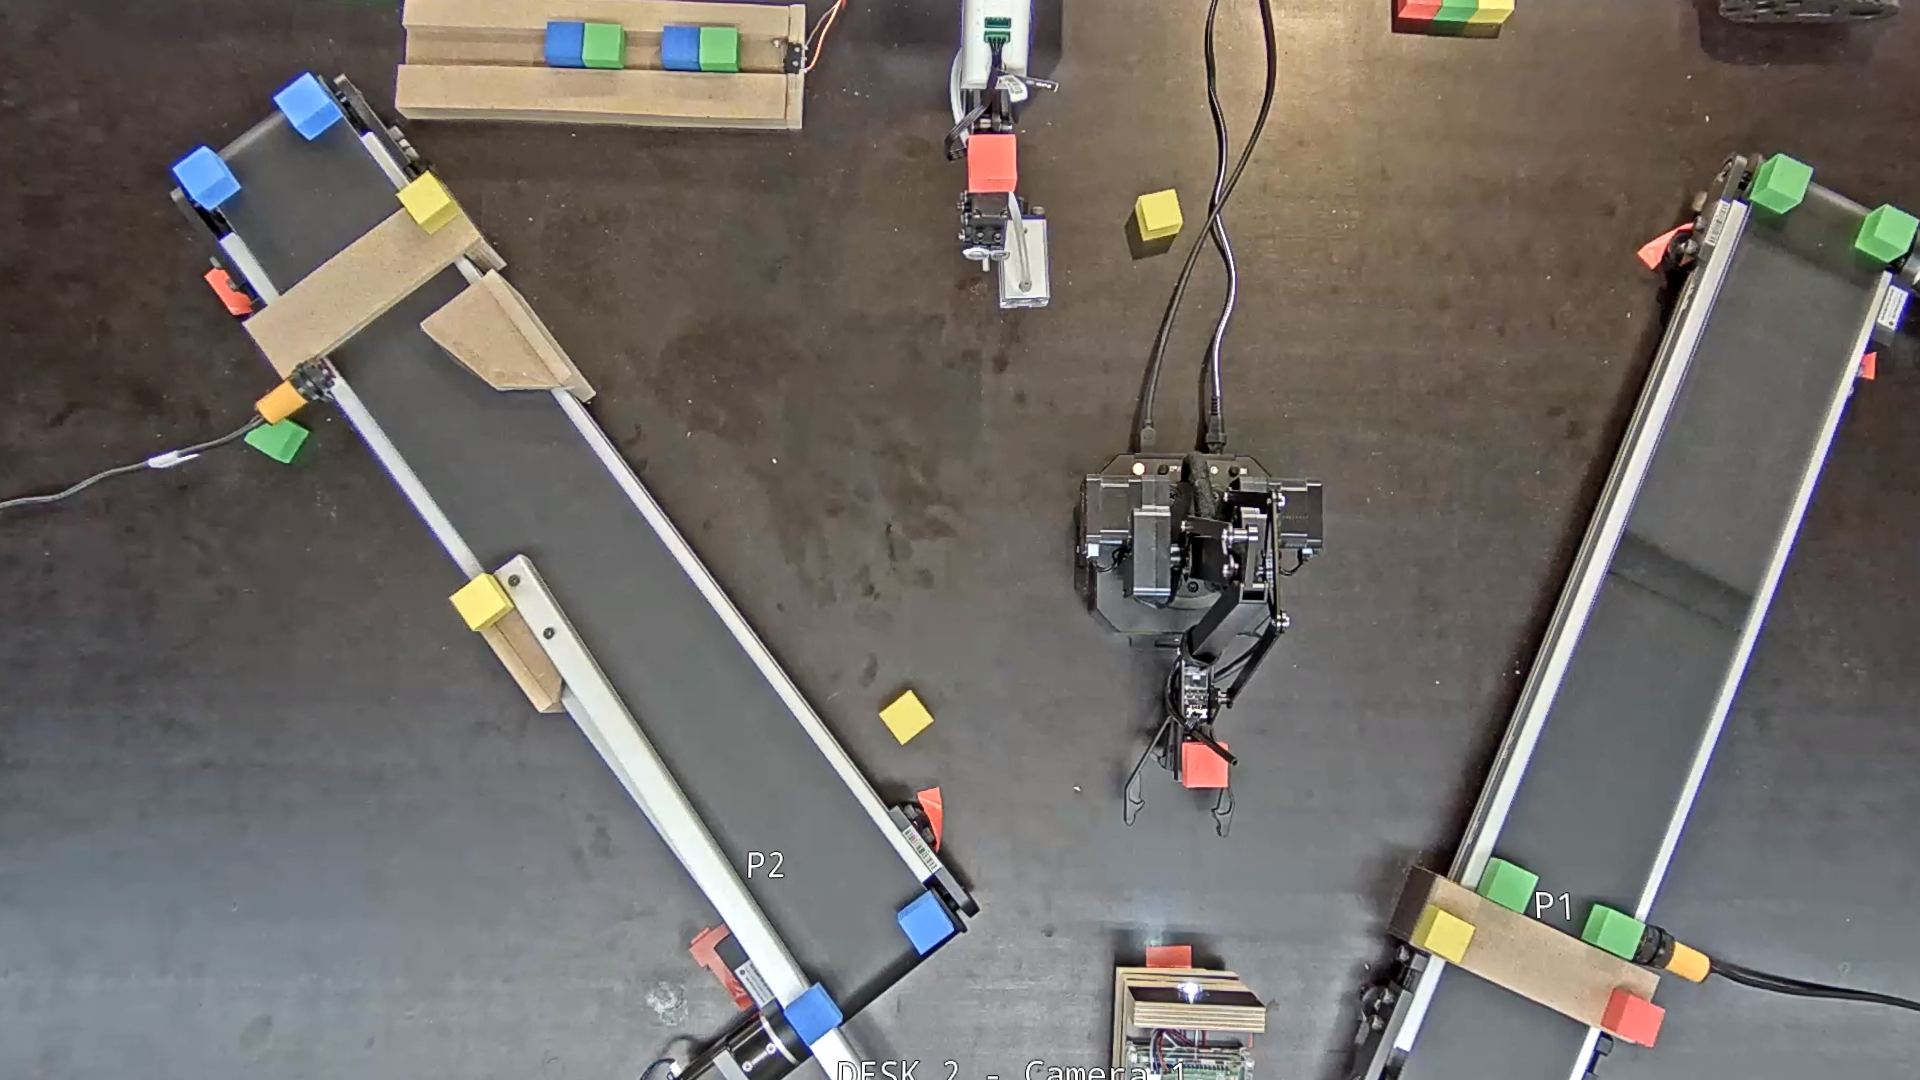
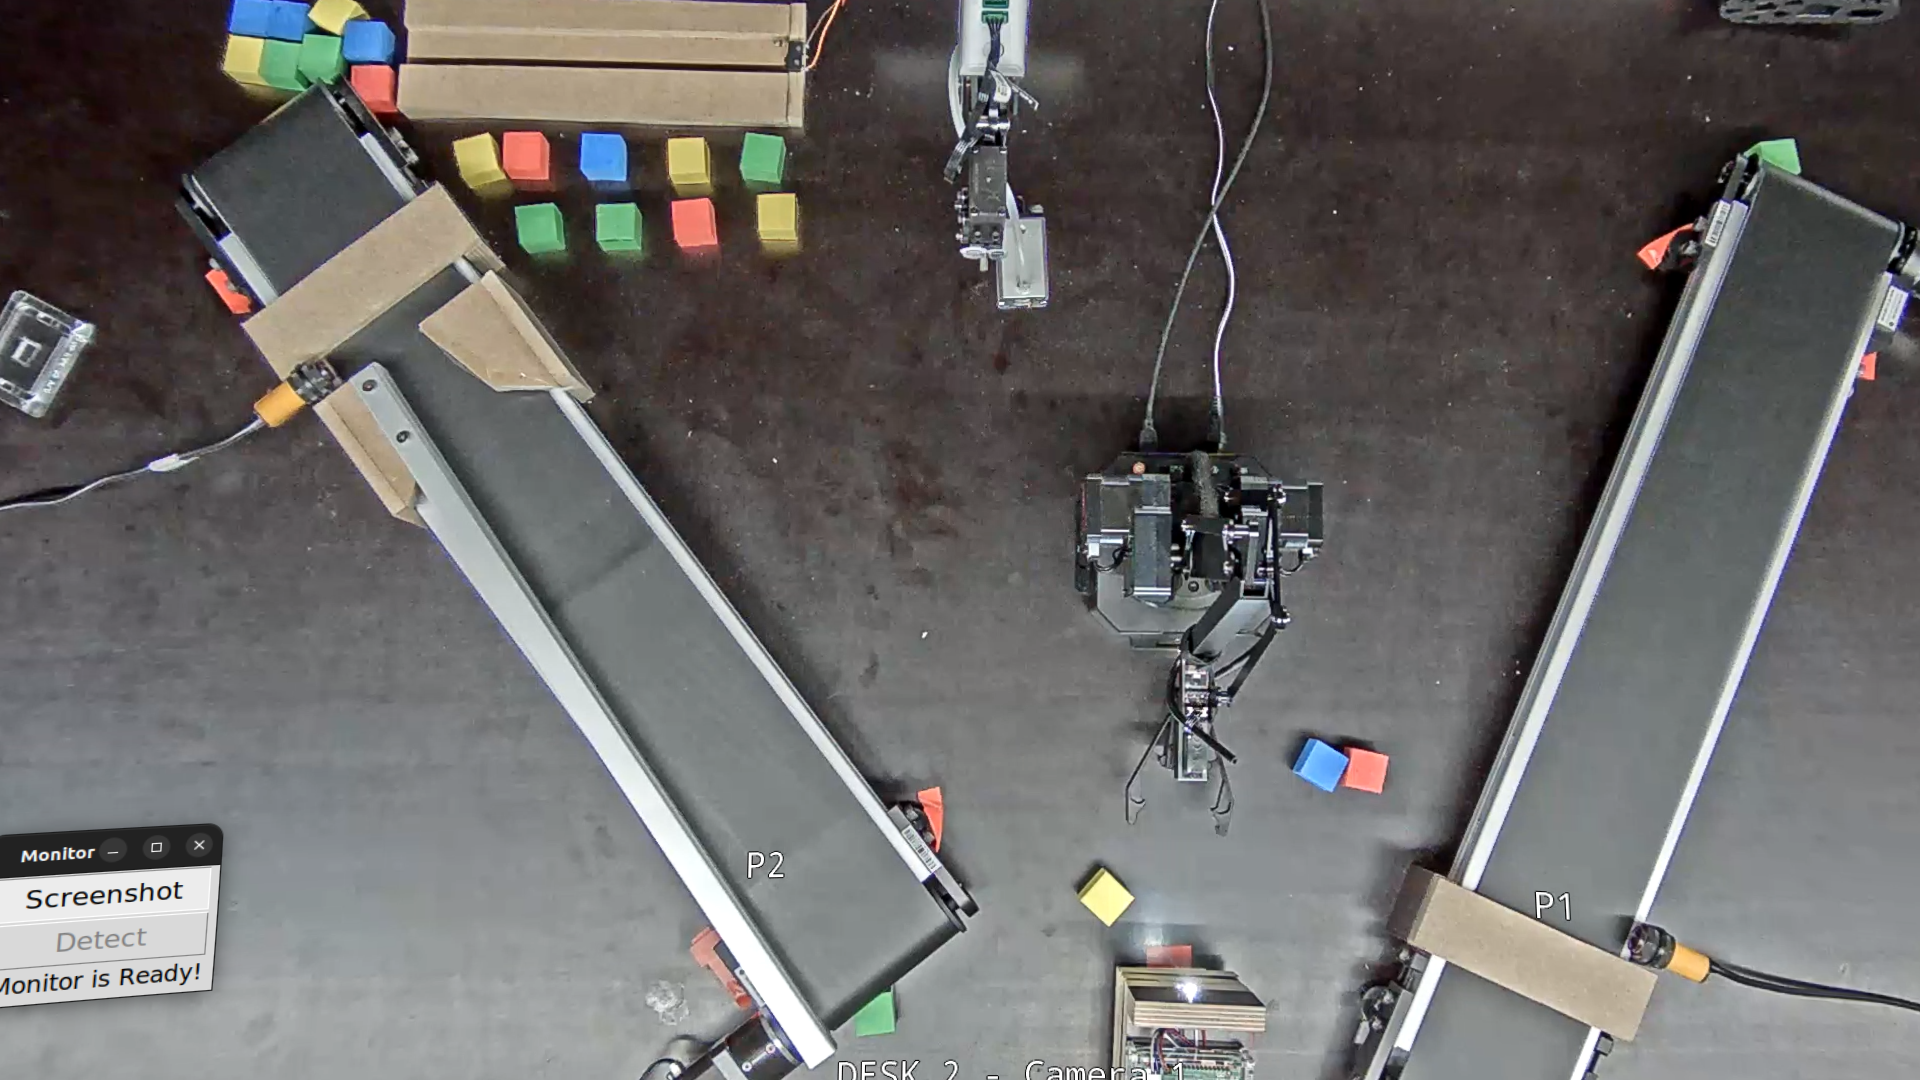
20220910

diff --git a/src/tracks.py b/src/tracks.py
@@ -4,25 +4,25 @@ import points as pts
 def isOnTrack(testPoint):#testPoint为待测点[x,y]
 
     # define area 1 as the left track (pink)
-    LBPoint_1 = [pts.corner_left_4_x, pts.corner_left_4_y]
-    LTPoint_1 = [pts.corner_left_1_x, pts.corner_left_1_y]
-    RTPoint_1 = [pts.corner_left_2_x, pts.corner_left_2_y]
-    RBPoint_1 = [pts.corner_left_3_x, pts.corner_left_3_y]
-    a = (LTPoint_1[0]-LBPoint_1[0])*(testPoint[1]-LBPoint_1[1])-(LTPoint_1[1]-LBPoint_1[1])*(testPoint[0]-LBPoint_1[0])
-    b = (RTPoint_1[0]-LTPoint_1[0])*(testPoint[1]-LTPoint_1[1])-(RTPoint_1[1]-LTPoint_1[1])*(testPoint[0]-LTPoint_1[0])
-    c = (RBPoint_1[0]-RTPoint_1[0])*(testPoint[1]-RTPoint_1[1])-(RBPoint_1[1]-RTPoint_1[1])*(testPoint[0]-RTPoint_1[0])
-    d = (LBPoint_1[0]-RBPoint_1[0])*(testPoint[1]-RBPoint_1[1])-(LBPoint_1[1]-RBPoint_1[1])*(testPoint[0]-RBPoint_1[0])
+    left_track_LBPoint = [pts.left_track_LB_x, pts.left_track_LB_y]
+    left_track_LTPoint = [pts.left_track_LT_x, pts.left_track_LT_y]
+    left_track_RTPoint = [pts.left_track_RT_x, pts.left_track_RT_y]
+    left_track_RBPoint = [pts.left_track_RB_x, pts.left_track_RB_y]
+    a = (left_track_LTPoint[0]-left_track_LBPoint[0])*(testPoint[1]-left_track_LBPoint[1])-(left_track_LTPoint[1]-left_track_LBPoint[1])*(testPoint[0]-left_track_LBPoint[0])
+    b = (left_track_RTPoint[0]-left_track_LTPoint[0])*(testPoint[1]-left_track_LTPoint[1])-(left_track_RTPoint[1]-left_track_LTPoint[1])*(testPoint[0]-left_track_LTPoint[0])
+    c = (left_track_RBPoint[0]-left_track_RTPoint[0])*(testPoint[1]-left_track_RTPoint[1])-(left_track_RBPoint[1]-left_track_RTPoint[1])*(testPoint[0]-left_track_RTPoint[0])
+    d = (left_track_LBPoint[0]-left_track_RBPoint[0])*(testPoint[1]-left_track_RBPoint[1])-(left_track_LBPoint[1]-left_track_RBPoint[1])*(testPoint[0]-left_track_RBPoint[0])
     in_area_1 = (a>0 and b>0 and c>0 and d>0) or (a<0 and b<0 and c<0 and d<0)
 
     # define area 2 as the right track (pink)
-    LBPoint_2 = [pts.corner_right_4_x, pts.corner_right_4_y]
-    LTPoint_2 = [pts.corner_right_1_x, pts.corner_right_1_y]
-    RTPoint_2 = [pts.corner_right_2_x, pts.corner_right_2_y]
-    RBPoint_2 = [pts.corner_right_3_x, pts.corner_right_3_y]
-    a = (LTPoint_2[0]-LBPoint_2[0])*(testPoint[1]-LBPoint_2[1])-(LTPoint_2[1]-LBPoint_2[1])*(testPoint[0]-LBPoint_2[0])
-    b = (RTPoint_2[0]-LTPoint_2[0])*(testPoint[1]-LTPoint_2[1])-(RTPoint_2[1]-LTPoint_2[1])*(testPoint[0]-LTPoint_2[0])
-    c = (RBPoint_2[0]-RTPoint_2[0])*(testPoint[1]-RTPoint_2[1])-(RBPoint_2[1]-RTPoint_2[1])*(testPoint[0]-RTPoint_2[0])
-    d = (LBPoint_2[0]-RBPoint_2[0])*(testPoint[1]-RBPoint_2[1])-(LBPoint_2[1]-RBPoint_2[1])*(testPoint[0]-RBPoint_2[0])
+    right_track_LBPoint = [pts.right_track_LB_x, pts.right_track_LB_y]
+    right_track_LTPoint = [pts.right_track_LT_x, pts.right_track_LT_y]
+    right_track_RTPoint = [pts.right_track_RT_x, pts.right_track_RT_y]
+    right_track_RBPoint = [pts.right_track_RB_x, pts.right_track_RB_y]
+    a = (right_track_LTPoint[0]-right_track_LBPoint[0])*(testPoint[1]-right_track_LBPoint[1])-(right_track_LTPoint[1]-right_track_LBPoint[1])*(testPoint[0]-right_track_LBPoint[0])
+    b = (right_track_RTPoint[0]-right_track_LTPoint[0])*(testPoint[1]-right_track_LTPoint[1])-(right_track_RTPoint[1]-right_track_LTPoint[1])*(testPoint[0]-right_track_LTPoint[0])
+    c = (right_track_RBPoint[0]-right_track_RTPoint[0])*(testPoint[1]-right_track_RTPoint[1])-(right_track_RBPoint[1]-right_track_RTPoint[1])*(testPoint[0]-right_track_RTPoint[0])
+    d = (right_track_LBPoint[0]-right_track_RBPoint[0])*(testPoint[1]-right_track_RBPoint[1])-(right_track_LBPoint[1]-right_track_RBPoint[1])*(testPoint[0]-right_track_RBPoint[0])
     in_area_2 = (a>0 and b>0 and c>0 and d>0) or (a<0 and b<0 and c<0 and d<0)
 
     if in_area_1 or in_area_2: # if the point falls in either the left track or the right track, return True.

diff --git a/src/drawing.py b/src/drawing.py
@@ -8,24 +8,36 @@ def draw_points(image, x, y):
 
 def draw_masks(image):
     # draw the mask of the left track
-    pts_1 = np.array([[pts.corner_left_4_x, pts.corner_left_4_y],[pts.corner_left_1_x, pts.corner_left_1_y],[pts.corner_left_2_x, pts.corner_left_2_y],[pts.corner_left_3_x, pts.corner_left_3_y]], np.int32)
+    pts_1 = np.array([[pts.left_track_LB_x, pts.left_track_LB_y],
+                        [pts.left_track_LT_x, pts.left_track_LT_y],
+                        [pts.left_track_RT_x, pts.left_track_RT_y],
+                        [pts.left_track_RB_x, pts.left_track_RB_y]], np.int32)
     pts_1 = pts_1.reshape((-1, 1, 2))
     zeros = np.zeros((image.shape), dtype=np.uint8)
     mask_1 = cv2.fillConvexPoly(zeros, pts_1, (255,0,255))
 
     # draw the mask of the right track
-    pts_2 = np.array([[pts.corner_right_4_x, pts.corner_right_4_y],[pts.corner_right_1_x, pts.corner_right_1_y],[pts.corner_right_2_x, pts.corner_right_2_y],[pts.corner_right_3_x, pts.corner_right_3_y]], np.int32)
+    pts_2 = np.array([[pts.right_track_LB_x, pts.right_track_LB_y],
+                        [pts.right_track_LT_x, pts.right_track_LT_y],
+                        [pts.right_track_RT_x, pts.right_track_RT_y],
+                        [pts.right_track_RB_x, pts.right_track_RB_y]], np.int32)
     pts_2 = pts_2.reshape((-1, 1, 2))
     mask_2 = cv2.fillConvexPoly(zeros, pts_2, (255,0,255))
     image = 0.3*mask_1 + 0.3*mask_2 + + image
 
     # draw the mask of the right track
-    pts_3 = np.array([[pts.upper_left_4_x, pts.upper_left_4_y],[pts.upper_left_1_x, pts.upper_left_1_y],[pts.upper_left_2_x, pts.upper_left_2_y],[pts.upper_left_3_x, pts.upper_left_3_y]], np.int32)
+    pts_3 = np.array([[pts.left_track_upper_LB_x, pts.left_track_upper_LB_y],
+                        [pts.left_track_upper_LT_x, pts.left_track_upper_LT_y],
+                        [pts.left_track_upper_RT_x, pts.left_track_upper_RT_y],
+                        [pts.left_track_upper_RB_x, pts.left_track_upper_RB_y]], np.int32)
     pts_3 = pts_3.reshape((-1, 1, 2))
     mask_3 = cv2.fillConvexPoly(zeros, pts_3, (255,255,255))
 
     # draw the mask of the right track
-    pts_4 = np.array([[pts.upper_right_4_x, pts.upper_right_4_y],[pts.upper_right_1_x, pts.upper_right_1_y],[pts.upper_right_2_x, pts.upper_right_2_y],[pts.upper_right_3_x, pts.upper_right_3_y]], np.int32)
+    pts_4 = np.array([[pts.right_track_upper_LB_x, pts.right_track_upper_LB_y],
+                        [pts.right_track_upper_LT_x, pts.right_track_upper_LT_y],
+                        [pts.right_track_upper_RT_x, pts.right_track_upper_RT_y],
+                        [pts.right_track_upper_RB_x, pts.right_track_upper_RB_y]], np.int32)
     pts_4 = pts_4.reshape((-1, 1, 2))
     mask_4 = cv2.fillConvexPoly(zeros, pts_4, (255,255,255))
 

diff --git a/src/cubeCorrection.py b/src/cubeCorrection.py
@@ -3,11 +3,11 @@ import points as pts
 
 def isAtUpperLeft(testPoint):#testPoint为待测点[x,y]
 
-    # define area 1 as the left track (pink)
-    LBPoint_1 = [pts.upper_left_4_x, pts.upper_left_4_y]
-    LTPoint_1 = [pts.upper_left_1_x, pts.upper_left_1_y]
-    RTPoint_1 = [pts.upper_left_2_x, pts.upper_left_2_y]
-    RBPoint_1 = [pts.upper_left_3_x, pts.upper_left_3_y]
+    # define area 1 as the left track (white)
+    LBPoint_1 = [pts.left_track_upper_LB_x, pts.left_track_upper_LB_y]
+    LTPoint_1 = [pts.left_track_upper_LT_x, pts.left_track_upper_LT_y]
+    RTPoint_1 = [pts.left_track_upper_RT_x, pts.left_track_upper_RT_y]
+    RBPoint_1 = [pts.left_track_upper_RB_x, pts.left_track_upper_RB_y]
     a = (LTPoint_1[0]-LBPoint_1[0])*(testPoint[1]-LBPoint_1[1])-(LTPoint_1[1]-LBPoint_1[1])*(testPoint[0]-LBPoint_1[0])
     b = (RTPoint_1[0]-LTPoint_1[0])*(testPoint[1]-LTPoint_1[1])-(RTPoint_1[1]-LTPoint_1[1])*(testPoint[0]-LTPoint_1[0])
     c = (RBPoint_1[0]-RTPoint_1[0])*(testPoint[1]-RTPoint_1[1])-(RBPoint_1[1]-RTPoint_1[1])*(testPoint[0]-RTPoint_1[0])
@@ -22,11 +22,11 @@ def isAtUpperLeft(testPoint):#testPoint为待测点[x,y]
 
 def isAtUpperRight(testPoint):#testPoint为待测点[x,y]
 
-    # define area 1 as the left track (pink)
-    LBPoint_1 = [pts.upper_right_4_x, pts.upper_right_4_y]
-    LTPoint_1 = [pts.upper_right_1_x, pts.upper_right_1_y]
-    RTPoint_1 = [pts.upper_right_2_x, pts.upper_right_2_y]
-    RBPoint_1 = [pts.upper_right_3_x, pts.upper_right_3_y]
+    # define area 2 as the left track (white)
+    LBPoint_1 = [pts.right_track_upper_LB_x, pts.right_track_upper_LB_y]
+    LTPoint_1 = [pts.right_track_upper_LT_x, pts.right_track_upper_LT_y]
+    RTPoint_1 = [pts.right_track_upper_RT_x, pts.right_track_upper_RT_y]
+    RBPoint_1 = [pts.right_track_upper_RB_x, pts.right_track_upper_RB_y]
     a = (LTPoint_1[0]-LBPoint_1[0])*(testPoint[1]-LBPoint_1[1])-(LTPoint_1[1]-LBPoint_1[1])*(testPoint[0]-LBPoint_1[0])
     b = (RTPoint_1[0]-LTPoint_1[0])*(testPoint[1]-LTPoint_1[1])-(RTPoint_1[1]-LTPoint_1[1])*(testPoint[0]-LTPoint_1[0])
     c = (RBPoint_1[0]-RTPoint_1[0])*(testPoint[1]-RTPoint_1[1])-(RBPoint_1[1]-RTPoint_1[1])*(testPoint[0]-RTPoint_1[0])

diff --git a/src/points.py b/src/points.py
@@ -14,44 +14,44 @@ moving_arm_x = 992
 moving_arm_y = 157
 
 # the corner points of the left tracker
-corner_left_1_x = 187
-corner_left_1_y = 166
-corner_left_2_x = 316
-corner_left_2_y = 80
-corner_left_3_x = 954
-corner_left_3_y = 928
-corner_left_4_x = 815
-corner_left_4_y = 1028
+left_track_LB_x = 819
+left_track_LB_y = 1035
+left_track_LT_x = 187
+left_track_LT_y = 166
+left_track_RT_x = 316
+left_track_RT_y = 80
+left_track_RB_x = 955
+left_track_RB_y = 928
 
 # the corner points of the right tracker
-corner_right_1_x = 1760
-corner_right_1_y = 157
-corner_right_2_x = 1910
-corner_right_2_y = 226
-corner_right_3_x = 1627
-corner_right_3_y = 943
-corner_right_4_x = 1477
-corner_right_4_y = 880
+right_track_LB_x = 1477
+right_track_LB_y = 880
+right_track_LT_x = 1760
+right_track_LT_y = 157
+right_track_RT_x = 1910
+right_track_RT_y = 226
+right_track_RB_x = 1627
+right_track_RB_y = 943
 
 # upper area of the left track
-upper_left_1_x = 167
-upper_left_1_y = 141
-upper_left_2_x = 296
-upper_left_2_y = 55
-upper_left_3_x = 316
-upper_left_3_y = 80
-upper_left_4_x = 187
-upper_left_4_y = 166
+left_track_upper_LT_x = 167
+left_track_upper_LT_y = 141
+left_track_upper_RT_x = 296
+left_track_upper_RT_y = 55
+left_track_upper_RB_x = 316
+left_track_upper_RB_y = 80
+left_track_upper_LB_x = 187
+left_track_upper_LB_y = 166
 
 # upper area of the right track
-upper_right_1_x = 1770
-upper_right_1_y = 127
-upper_right_2_x = 1920
-upper_right_2_y = 196
-upper_right_3_x = 1910
-upper_right_3_y = 226
-upper_right_4_x = 1760
-upper_right_4_y = 157
+right_track_upper_LT_x = 1770
+right_track_upper_LT_y = 127
+right_track_upper_RT_x = 1920
+right_track_upper_RT_y = 196
+right_track_upper_RB_x = 1910
+right_track_upper_RB_y = 226
+right_track_upper_LB_x = 1760
+right_track_upper_LB_y = 157
 
 # tape A
 tape_A_1_x = 188

diff --git a/src/detection.py b/src/detection.py
@@ -177,14 +177,14 @@ def detect(image):
 ######################     draw some lines/points to help debug STARTs    #####################
 
     drawing.draw_points(image, pts.center_x, pts.center_y)
-    # drawing.draw_points(image, pts.corner_left_1_x, pts.corner_left_1_y)
-    # drawing.draw_points(image, pts.corner_left_2_x, pts.corner_left_2_y)
-    # drawing.draw_points(image, pts.corner_left_3_x, pts.corner_left_3_y)
-    # drawing.draw_points(image, pts.corner_left_4_x, pts.corner_left_4_y)
-    # drawing.draw_points(image, pts.corner_right_1_x, pts.corner_right_1_y)
-    # drawing.draw_points(image, pts.corner_right_2_x, pts.corner_right_2_y)
-    # drawing.draw_points(image, pts.corner_right_3_x, pts.corner_right_3_y)
-    # drawing.draw_points(image, pts.corner_right_4_x, pts.corner_right_4_y)
+    # drawing.draw_points(image, pts.left_track_LB_x, pts.left_track_LB_y)
+    # drawing.draw_points(image, pts.left_track_LT_x, pts.left_track_LT_y)
+    # drawing.draw_points(image, pts.left_track_RT_x, pts.left_track_RT_y)
+    # drawing.draw_points(image, pts.left_track_RB_x, pts.left_track_RB_y)
+    # drawing.draw_points(image, pts.right_track_LB_x, pts.right_track_LB_y)
+    # drawing.draw_points(image, pts.right_track_LT_x, pts.right_track_LT_y)
+    # drawing.draw_points(image, pts.right_track_RT_x, pts.right_track_RT_y)
+    # drawing.draw_points(image, pts.right_track_RB_x, pts.right_track_RB_y)
 
     image = drawing.draw_masks(image)
 

diff --git a/src/gui/run_gui.py b/src/gui/run_gui.py
@@ -1,0 +1,49 @@
+import tkinter as tk
+import time
+import pyscreenshot as ImageGrab
+import os
+
+pic_grab_path = "./pic.png"
+
+# 创建Tk对象，Tk代表窗口
+root =tk.Tk()
+# 让窗口强制置顶
+root.wm_attributes('-topmost',1)
+# 设置窗口标题
+root.title('Monitor')
+# 设置窗口大小,位置
+root.geometry("180x110+100+800")
+
+# 创建Label对象，第一个参数指定该Label放入root
+var=tk.StringVar()
+
+# get the screenshot of the camera
+def get_screenshot():
+    pic = ImageGrab.grab()
+    pic.save(pic_grab_path)
+
+#测试用途
+def screenshot_event():
+    var.set("Ready to shot...")
+    time.sleep(1)
+    get_screenshot()
+    var.set("Screenshot done!")
+
+def detection_event():
+    var.set("Ready to detect...")
+    os.system("parallel sh ::: run_docker.sh update_data.sh")
+    var.set("Detection done!")
+
+#测试用途
+goBtn = tk.Button(text="Screenshot",command=screenshot_event,fg='gray',font=("Romans",16),height=1,width=10)
+goBtn.pack()
+goBtn = tk.Button(text="Detect",command=detection_event,fg='gray',font=("Romans",16),height=1,width=10)
+goBtn.pack()
+
+w =tk.Label(root,textvariable=var,fg='black',font=("Romans",14))
+var.set("Monitor is Ready!")
+# 调用pack进行布局
+w.pack()
+ 
+# 启动主窗口的消息循环
+root.mainloop()

diff --git a/src/main.py b/src/main.py
@@ -7,14 +7,8 @@ pic_grab_path = "./pic.png"
 pic_undistorted_path = "./img_undistorted.png"
 pic_detected_path = "./image_detection.png"
 
-# # get the scrrenshot of the camera
-# def get_screenshot():
-#     pic = ImageGrab.grab()
-#     pic.save(pic_grab_path)
 
 if __name__=="__main__":  
-
-    # get_screenshot()
 
     time.sleep(1)
 
